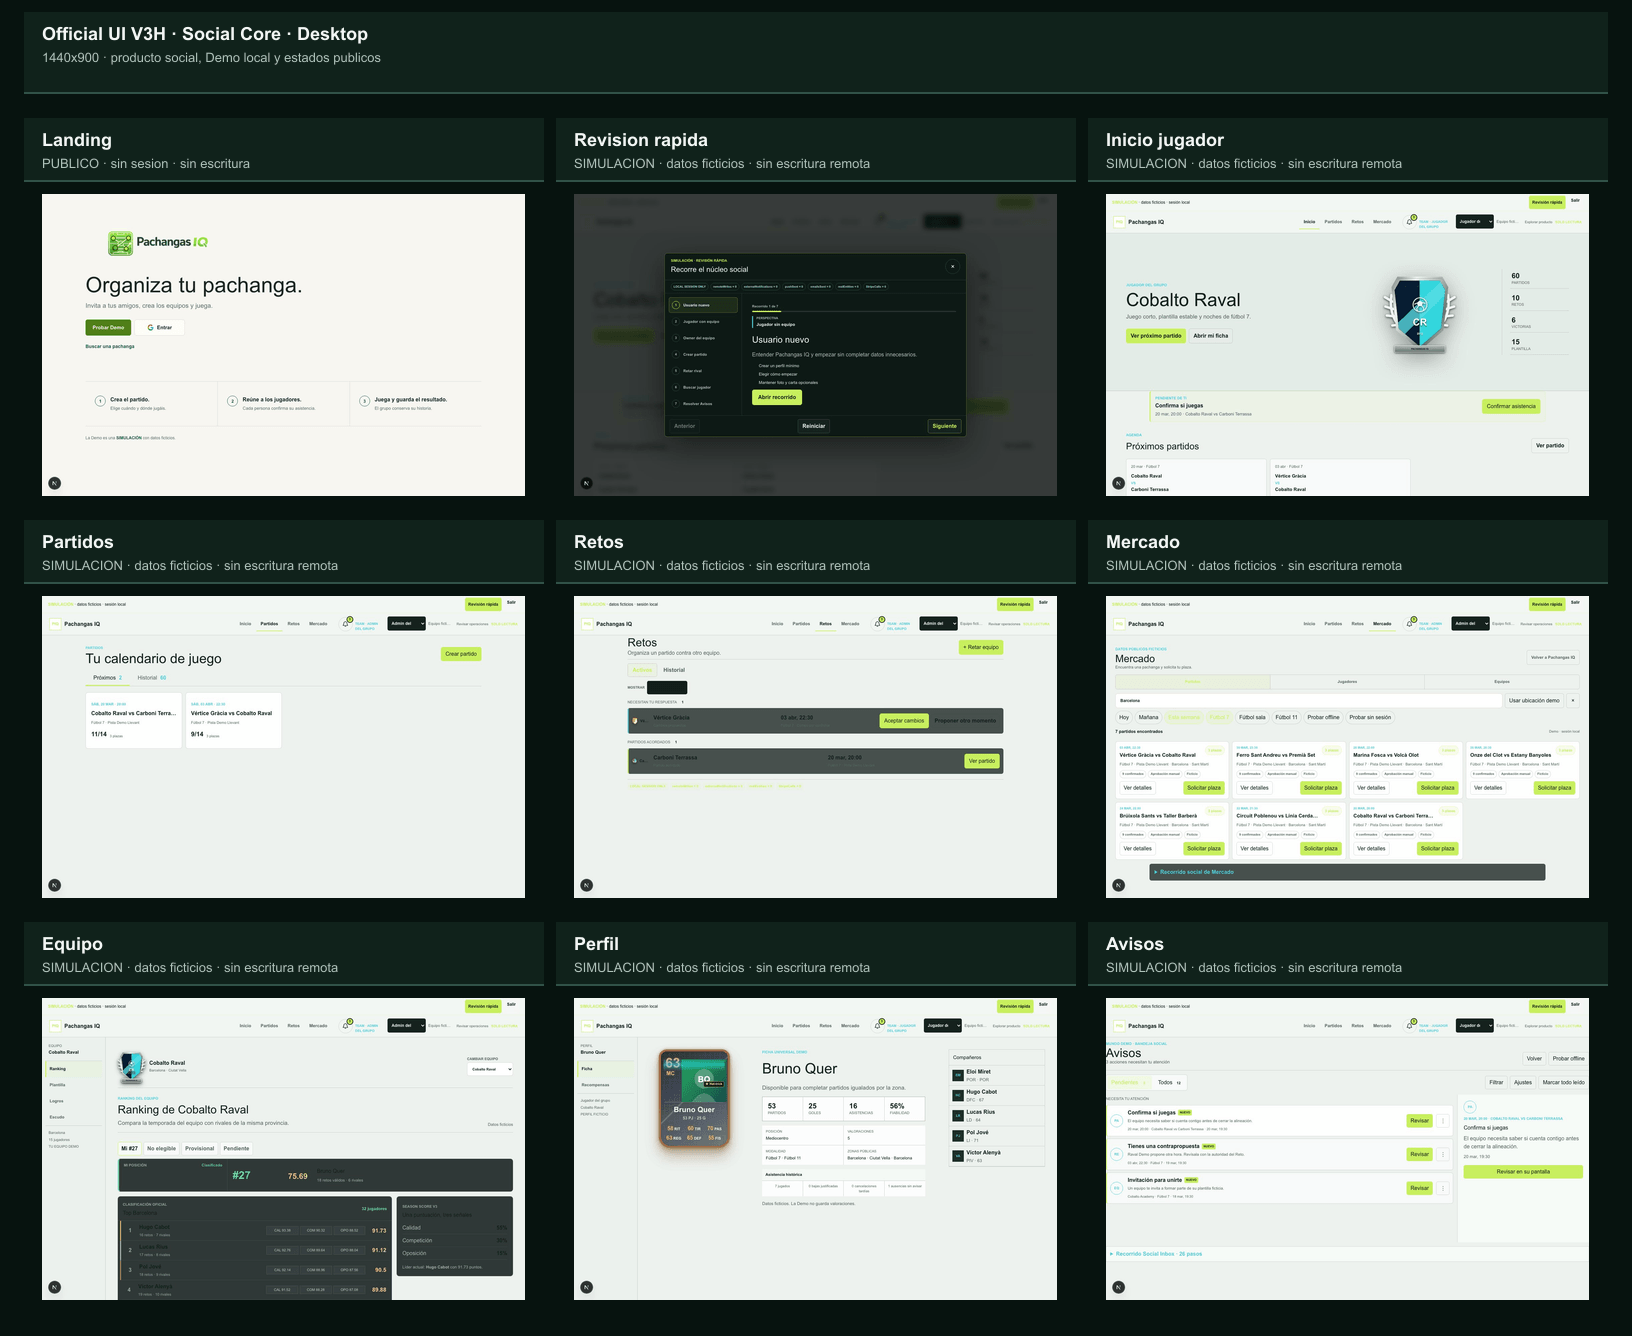
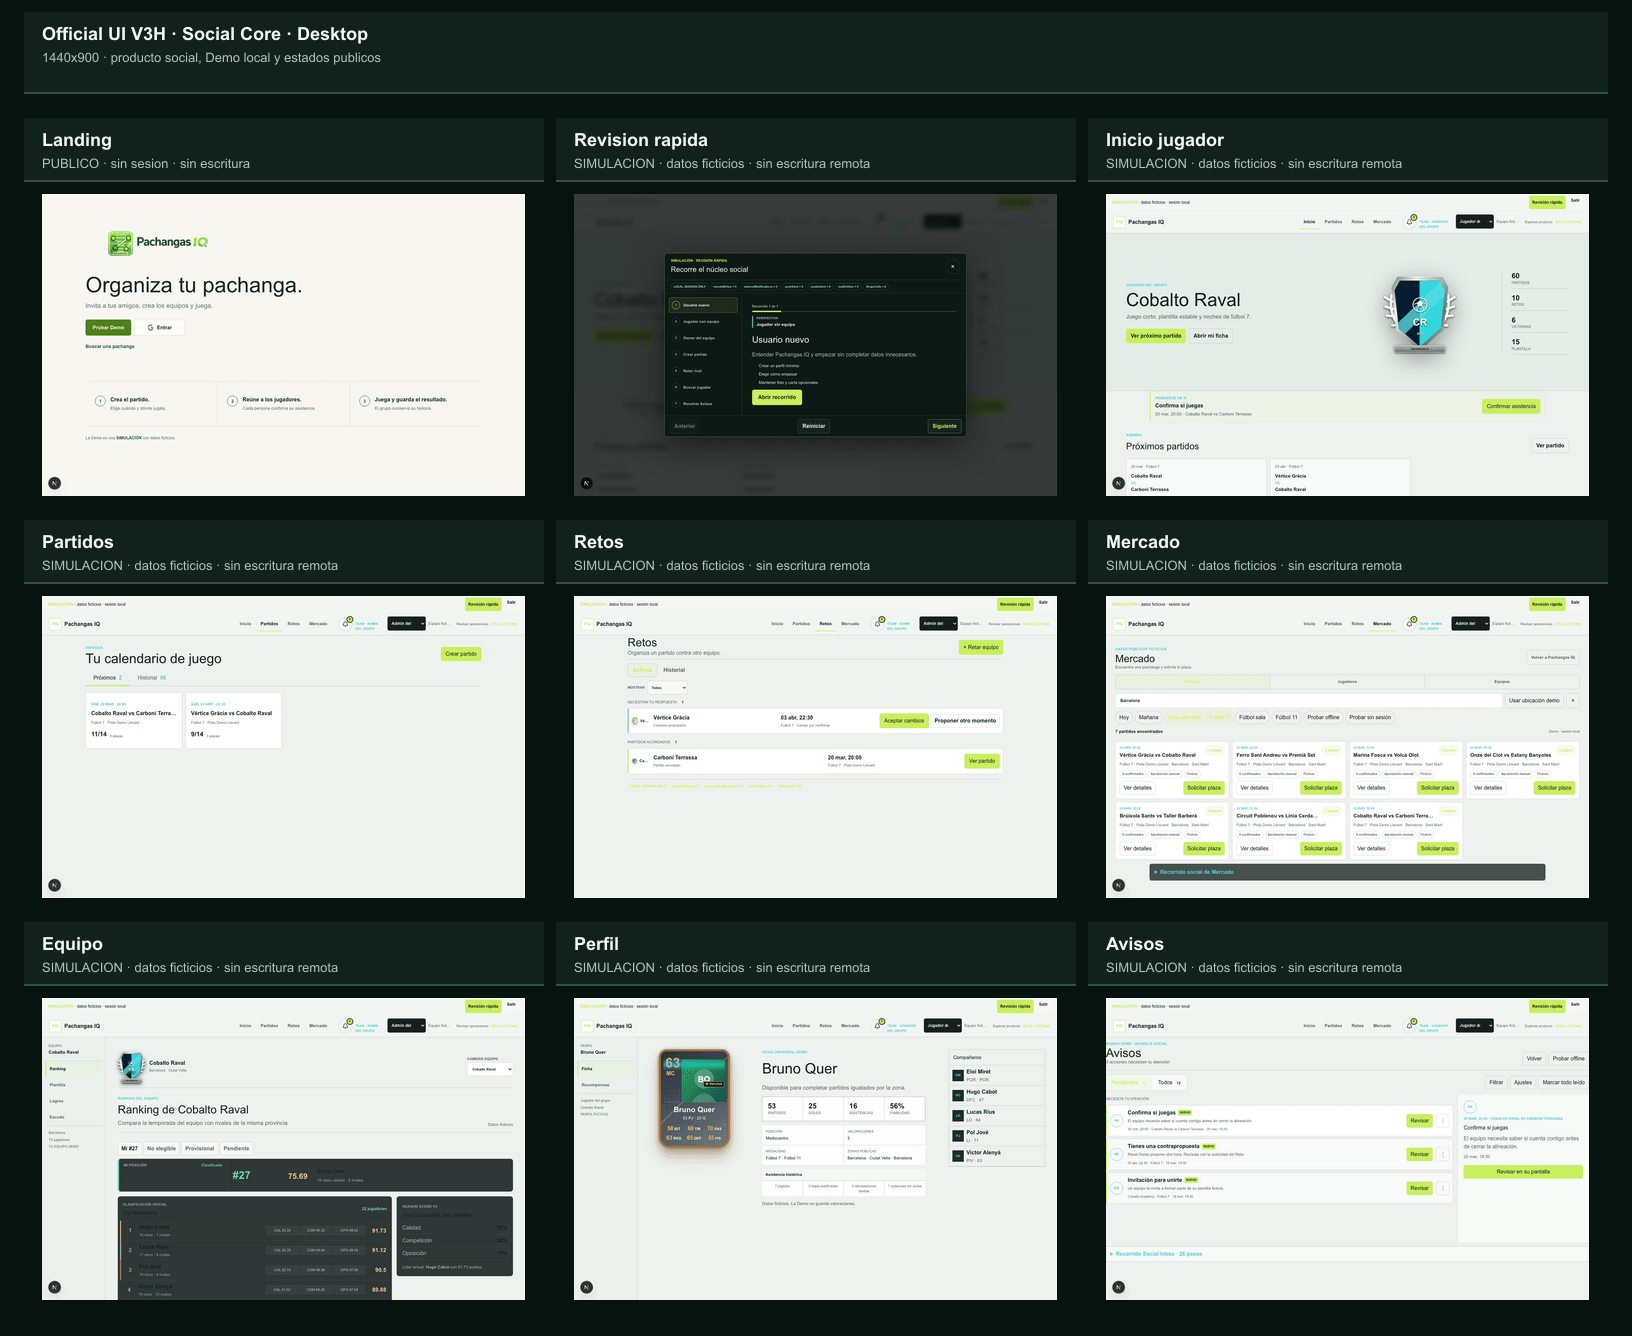
Fix Demo Retos theme contrast

Changed region(s): [[0.375, 0.491, 0.625, 0.5831]]

diff --git a/app/demo-world/demo-world.module.css b/app/demo-world/demo-world.module.css
@@ -3247,7 +3247,7 @@
 .demoChallengesV3c > nav > button { min-height: 40px; border: 1px solid transparent; border-radius: 5px; background: transparent; padding: 0 14px; color: var(--demo-muted); font-weight: 850; }
 .demoChallengesV3c > nav > button[aria-current="page"] { border-color: var(--demo-line); background: rgba(200, 239, 93, 0.08); color: var(--demo-lime); }
 .demoChallengeFilterSelect { width: fit-content; display: flex; align-items: center; gap: 7px; color: var(--demo-muted); font-size: 0.63rem; font-weight: 850; }
-.demoChallengeFilterSelect select { min-width: 120px; min-height: 40px; border: 1px solid var(--demo-line); border-radius: 5px; background: #101d1a; padding: 0 30px 0 9px; color: var(--demo-ink); }
+.demoChallengeFilterSelect select { min-width: 120px; min-height: 40px; border: 1px solid var(--demo-line); border-radius: 5px; background: var(--demo-panel-soft); padding: 0 30px 0 9px; color: var(--demo-ink); }
 
 .demoPerspectiveBar {
   min-height: 42px;
@@ -3278,7 +3278,7 @@
   border: 1px solid var(--demo-line);
   border-left: 3px solid var(--demo-cyan);
   border-radius: 6px;
-  background: rgba(18, 29, 26, 0.76);
+  background: var(--demo-panel);
   padding: 8px 10px;
 }
 .demoChallengeCard[data-state="accepted"] { border-left-color: var(--demo-lime); }
@@ -3294,7 +3294,7 @@
 .demoChallengeWizard > div:last-child button:not(.primaryButton) { min-height: 40px; border: 1px solid var(--demo-line); border-radius: 5px; background: transparent; padding: 0 10px; color: var(--demo-ink); font-weight: 800; }
 
 .demoChallengeHistory { display: grid; gap: 6px; }
-.demoChallengeHistory > button { min-height: 60px; display: grid; grid-template-columns: 46px minmax(0, 1fr) auto; align-items: center; gap: 10px; border: 1px solid var(--demo-line); border-radius: 5px; background: rgba(18, 29, 26, 0.7); padding: 7px 10px; color: inherit; text-align: left; }
+.demoChallengeHistory > button { min-height: 60px; display: grid; grid-template-columns: 46px minmax(0, 1fr) auto; align-items: center; gap: 10px; border: 1px solid var(--demo-line); border-radius: 5px; background: var(--demo-panel); padding: 7px 10px; color: inherit; text-align: left; }
 .demoChallengeHistory > button > span { min-width: 0; display: grid; gap: 2px; }
 .demoChallengeHistory small { overflow: hidden; color: var(--demo-muted); text-overflow: ellipsis; white-space: nowrap; }
 .demoChallengeHistory b { border-radius: 4px; background: rgba(255,255,255,0.07); padding: 5px 8px; color: var(--demo-muted); font-size: 0.63rem; }
@@ -3308,7 +3308,7 @@
   min-height: 0;
   border: 1px solid var(--demo-line);
   border-radius: 7px;
-  background: rgba(18, 29, 26, 0.82);
+  background: var(--demo-panel);
   padding: 16px;
 }
 .demoChallengeFocus > ol { display: grid; grid-template-columns: repeat(3, 1fr); gap: 7px; margin: 14px 0 0; padding: 0; list-style: none; }
@@ -3327,12 +3327,12 @@
 .demoChallengeWizard select,
 .demoChallengeWizard textarea,
 .demoChallengeFields input,
-.demoChallengeFields select { min-height: 40px; border: 1px solid var(--demo-line); border-radius: 5px; background: #101d1a; padding: 0 9px; color: var(--demo-ink); color-scheme: dark; }
+.demoChallengeFields select { min-height: 40px; border: 1px solid var(--demo-line); border-radius: 5px; background: var(--demo-panel-soft); padding: 0 9px; color: var(--demo-ink); color-scheme: inherit; }
 .demoChallengeWizard textarea { min-height: 70px; padding-block: 8px; }
 .demoChallengeWizard > div:last-child,
 .demoCounterproposal > div:last-child { display: flex; justify-content: space-between; gap: 8px; }
 .demoOpponentList { display: grid; grid-template-columns: repeat(2, minmax(0, 1fr)); gap: 6px; }
-.demoOpponentList > button { min-height: 56px; display: flex; align-items: center; gap: 8px; border: 1px solid var(--demo-line); border-radius: 5px; background: rgba(8, 23, 19, 0.46); padding: 7px; color: inherit; text-align: left; }
+.demoOpponentList > button { min-height: 56px; display: flex; align-items: center; gap: 8px; border: 1px solid var(--demo-line); border-radius: 5px; background: var(--demo-panel-soft); padding: 7px; color: inherit; text-align: left; }
 .demoOpponentList > button[aria-pressed="true"] { border-color: var(--demo-lime); background: rgba(200, 239, 93, 0.06); }
 .demoOpponentList > button > span { display: grid; gap: 2px; font-weight: 850; }
 .demoOpponentList small { color: var(--demo-muted); font-size: 0.62rem; }
@@ -3346,7 +3346,7 @@
 
 .demoChallengeDetail { display: grid; grid-template-columns: minmax(220px, 0.7fr) minmax(0, 1fr); align-items: start; gap: 18px; padding: 18px 0 8px; }
 .demoChallengeDetail dl { display: grid; grid-template-columns: repeat(2, minmax(0, 1fr)); gap: 1px; margin: 0; background: var(--demo-line); }
-.demoChallengeDetail dl > div { display: grid; gap: 3px; background: #12201c; padding: 10px; }
+.demoChallengeDetail dl > div { display: grid; gap: 3px; background: var(--demo-panel); padding: 10px; }
 .demoChallengeDetail dt { color: var(--demo-muted); font-size: 0.61rem; text-transform: uppercase; }
 .demoChallengeDetail dd { margin: 0; overflow-wrap: anywhere; }
 .demoChallengeActions { display: flex; flex-wrap: wrap; gap: 7px; padding-top: 10px; }

diff --git a/tests/official-ui-v3h-social-core.test.ts b/tests/official-ui-v3h-social-core.test.ts
@@ -47,6 +47,18 @@ test("Retos uses one local navigation and one compact filter", async () => {
   assert.doesNotMatch(emptyBranch, /Unirme a un equipo/);
 });
 
+test("Demo Retos uses theme-aware surfaces in light and dark modes", async () => {
+  const styles = await source("app/demo-world/demo-world.module.css");
+
+  assert.match(styles, /\.demoChallengeFilterSelect select \{[^}]*background: var\(--demo-panel-soft\)/);
+  assert.match(styles, /\.demoChallengeCard \{[^}]*background: var\(--demo-panel\)/s);
+  assert.match(styles, /\.demoChallengeHistory > button \{[^}]*background: var\(--demo-panel\)/);
+  assert.match(styles, /\.demoChallengeFocus \{[^}]*background: var\(--demo-panel\)/s);
+  assert.match(styles, /\.demoChallengeFields select \{[^}]*background: var\(--demo-panel-soft\)[^}]*color-scheme: inherit/);
+  assert.match(styles, /\.demoOpponentList > button \{[^}]*background: var\(--demo-panel-soft\)/);
+  assert.match(styles, /\.demoChallengeDetail dl > div \{[^}]*background: var\(--demo-panel\)/);
+});
+
 test("Mercado keeps location first and compacts geolocation accessibly", async () => {
   const [market, styles] = await Promise.all([
     source("app/mercado/marketplace-client.tsx"),

diff --git a/V3H_SOCIAL_CORE_INCIDENTS.md b/V3H_SOCIAL_CORE_INCIDENTS.md
@@ -37,5 +37,6 @@ Cada incidencia se registró en este ledger antes de corregirse; el inventario i
 | V3H-029 | TESTABILITY_GAP | fixed + regression_verified | La prueba V3H conserva `dialogRef.current` dentro del cleanup y rechaza la captura estable introducida por V3H-027 | V3H 6/6 y batería 824/824 exigen captura estable |
 | V3H-030 | ENVIRONMENT_ISSUE | accepted | Deployment Protection acepta la página con OIDC, pero el registro interno de `/sw.js` no hereda ese header y la Preview protegida no obtiene controller | PWA productiva local 8/8 PASS; repetir SW en `pachangasiq.com` público tras el merge |
 | V3H-031 | RESPONSIVE | fixed + regression_verified | Al ocultar cabecera y banner en Mobile Game Landscape, la Demo pierde la etiqueta persistente `SIMULACIÓN` | V3H 6/6, lint limpio y 4/4 landscape sin overflow ni targets pequeños |
+| V3H-032 | ACCESSIBILITY | fixed + regression_verified | Las tarjetas, historial y detalle de Retos conservaban superficies oscuras fijas en tema claro, pero heredaban texto oscuro y perdían contraste en landscape | Tokens de superficie light/dark, V3H 7/7, batería 825/825 y contact sheets desktop/portrait/landscape regeneradas |
 
 `verifying` solo puede cambiar a `fixed + regression_verified` cuando terminen la matriz visual, teclado, temas y reduced motion del SHA exacto.

diff --git a/OFFICIAL_UI_V3H_END_TO_END_REPORT.md b/OFFICIAL_UI_V3H_END_TO_END_REPORT.md
@@ -43,8 +43,8 @@ Sin cambios en Supabase, migraciones, RPC, RLS, flags, Stripe, Rating, resultado
 
 - Node: 20/20.
 - TS/TSX baseline: 798/798.
-- TS/TSX final: 804/804.
-- Total final: 824/824.
+- TS/TSX final: 805/805.
+- Total final: 825/825.
 - Skipped/todo/cancelled: 0/0/0.
 - Typecheck: PASS.
 - Build: PASS, 78 rutas.
@@ -54,8 +54,8 @@ Sin cambios en Supabase, migraciones, RPC, RLS, flags, Stripe, Rating, resultado
 
 | Gate | Estado |
 | --- | --- |
-| Regresión V3H focalizada | 6/6 PASS |
-| Tests completos | 824/824 PASS; 0 skip/todo/cancelled |
+| Regresión V3H focalizada | 7/7 PASS |
+| Tests completos | 825/825 PASS; 0 skip/todo/cancelled |
 | Typecheck | PASS |
 | Build | PASS; 78/78 rutas |
 | Lint focalizado | PASS, 0 warnings/error |
@@ -63,6 +63,7 @@ Sin cambios en Supabase, migraciones, RPC, RLS, flags, Stripe, Rating, resultado
 | `git diff --check` | PASS |
 | Matriz responsive | 152 combinaciones; 0 overflow/error/imagen rota |
 | Dark/light/reduced motion | 25 combinaciones; PASS |
+| Contraste Retos light/dark | PASS; superficies temáticas y tres contact sheets regeneradas |
 | Capturas finales | 54 combinaciones; PASS |
 | Teclado/focus/Escape | PASS; trampa, Escape y retorno al activador |
 | PWA standalone emulada | 8/8 superficies controladas por Service Worker |

diff --git a/SOCIAL_CORE_V3H_USABILITY_AUDIT.md b/SOCIAL_CORE_V3H_USABILITY_AUDIT.md
@@ -199,11 +199,12 @@ No se modificaran SQL, Supabase, migraciones, RPC, RLS, Stripe, Rating, rewards,
 
 ## Cierre del RC
 
-- Resultado final: Node 20/20 + TS/TSX 804/804 = 824/824.
+- Resultado final: Node 20/20 + TS/TSX 805/805 = 825/825.
 - Omitidos, `todo` y cancelados: 0/0/0.
 - Typecheck, build 78/78, lint focalizado, lint global y `git diff --check`: PASS.
 - Responsive: 152 combinaciones en los ocho viewports exigidos; 0 overflow raiz, errores de navegacion, errores/warnings de consola, peticiones fallidas o imagenes rotas.
 - Tema y movimiento: 25 combinaciones light/dark/reduced motion; PASS.
+- Retos light/dark: superficies tematicas verificadas y evidencia desktop/portrait/landscape regenerada tras V3H-032.
 - PWA productiva local: 8/8 superficies `standalone`, controladas por Service Worker y sin targets pequenos.
 - Offline: Demo y pruebas de cero escritura disponibles desde cache; una ruta API no cacheable no finge exito y se recupera al reconectar.
 - Supabase, migraciones, RPC, RLS, flags, Stripe y datos productivos: sin cambios.
